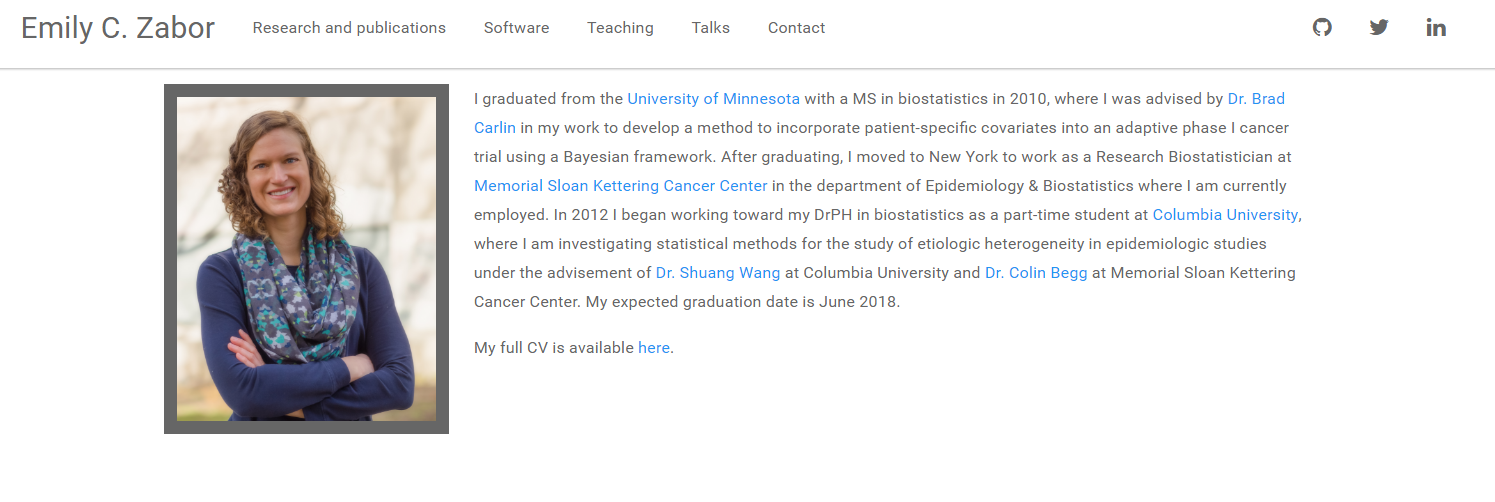
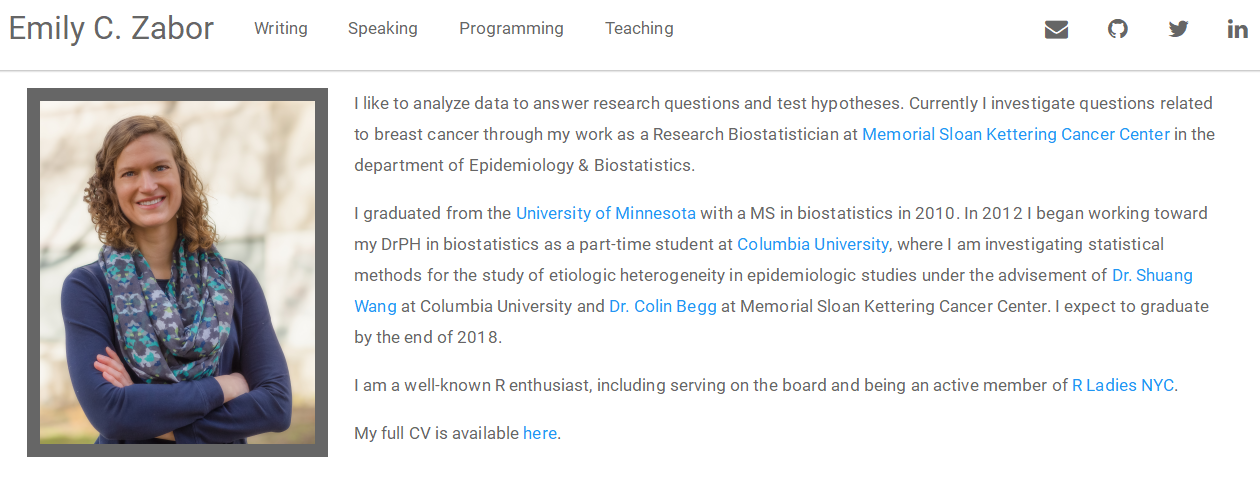
prepping websites tutorial for RLadies Meetup

diff --git a/rmarkdown_websites_tutorial.html b/rmarkdown_websites_tutorial.html
@@ -307,10 +307,7 @@ div.tocify {
 
 <p>This tutorial provides an introduction to creating websites using R, R Markdown and GitHub pages.</p>
 <p>This tutorial was originally presented at the Memorial Sloan Kettering Cancer Center Department of Epidemiology and Biostatistics R User Group meeting on January 23, 2018.</p>
-<div id="github" class="section level2">
-<h2>GitHub</h2>
-<p>If you don’t have a GitHub account already, sign up for one at <a href="https://github.com/join?source=header-home" class="uri">https://github.com/join?source=header-home</a> with username YOUR_GH_NAME.</p>
-</div>
+<p>The current version was updated and presented at the R Ladies NYC Meetup on February 15, 2018.</p>
 <div id="types-of-websites" class="section level2">
 <h2>Types of websites</h2>
 <p>The main types of websites you may want to create include:</p>
@@ -345,6 +342,12 @@ title: &quot;My Website&quot;
 Hello, Website! Welcome to the world.</code></pre>
 <p>You can find an overview of R Markdown website basics <a href="http://rmarkdown.rstudio.com/rmarkdown_websites.html">here</a>.</p>
 </div>
+<div id="github" class="section level2">
+<h2>GitHub</h2>
+<p>This tutorial will focus on hosting websites through GitHub pages. Hosting websites on GitHub pages is free.</p>
+<p>If you don’t have a GitHub account already, sign up for one at <a href="https://github.com/join?source=header-home" class="uri">https://github.com/join?source=header-home</a> with username YOUR_GH_NAME. I’ll be referring to this username, YOUR_GH_NAME, as “your GitHub username” throughout this tutorial.</p>
+<p>There are other free sites for website hosting, and another popular choice is <a href="https://www.netlify.com/">Netlify</a>.</p>
+</div>
 <div id="personal-websites" class="section level2">
 <h2>Personal websites</h2>
 <p>An example from the homepage of <a href="http://www.emilyzabor.com/">my personal website</a>:</p>
@@ -357,15 +360,18 @@ Hello, Website! Welcome to the world.</code></pre>
 <div id="github-setup" class="section level3">
 <h3>GitHub setup</h3>
 <ol style="list-style-type: decimal">
-<li>Create a GitHub repository named YOUR_GH_NAME.github.io, where YOUR_GH_NAME is your GitHub username.</li>
-<li>Initialize it with a README</li>
+<li>Create a GitHub repository (“repo”) named YOUR_GH_NAME.github.io, where YOUR_GH_NAME is your GitHub username.</li>
+<li>Initialize it with a README
+<ul>
+<li>For the GitHub inexperienced: this can ease the process of cloning the repo by initializing the remote repo with a master branch</li>
+</ul></li>
 </ol>
 </div>
 <div id="local-setup" class="section level3">
 <h3>Local setup</h3>
 <ol style="list-style-type: decimal">
 <li>Clone this remote repository to a local directory with the same name, YOUR_GH_NAME.github.io</li>
-<li>Add an R Project to this directoroy</li>
+<li>Add an R Project to this directory</li>
 <li>Create a <code>_site.yml</code> and <code>index.Rmd</code> file in your new directory</li>
 </ol>
 </div>
@@ -376,23 +382,24 @@ Hello, Website! Welcome to the world.</code></pre>
 </div>
 <div id="create-content" class="section level3">
 <h3>Create content</h3>
-<p>Edit the <code>_site.yml</code> file to change the metadata, layout, and <a href="http://jekyllthemes.org/">theme</a> of your website. For example, the <code>_site.yml</code> for my personal website looks like:</p>
+<p>Edit the <code>_site.yml</code> file to change the metadata, layout, and theme of your website. Preview Jekyll themes <a href="http://jekyllthemes.org/">here</a> and play around with different options. Themes are easy to change even after you have added content.</p>
+<p>For example, the <code>_site.yml</code> for my personal website looks like this:</p>
 <pre class="r"><code>name: &quot;Emily C. Zabor&quot;
 output_dir: &quot;.&quot;
 navbar:
   title: &quot;Emily C. Zabor&quot;
   left:
-    - text: &quot;Research and publications&quot;
+    - text: &quot;Writing&quot;
       href: research.html
-    - text: &quot;Software&quot;
+    - text: &quot;Speaking&quot;
+      href: talks.html
+    - text: &quot;Programming&quot;
       href: software.html
     - text: &quot;Teaching&quot;
       href: teaching.html
-    - text: &quot;Talks&quot;
-      href: talks.html
-    - text: &quot;Contact&quot;
-      href: contact.html
   right:
+    - icon: fa-envelope fa-lg
+      href: contact.html
     - icon: fa-github fa-lg
       href: http://github.com/zabore
     - icon: fa-twitter fa-lg
@@ -403,7 +410,8 @@ output:
   html_document:
     theme: paper
     css: &#39;styles.css&#39;</code></pre>
-<p>Edit and create <code>.Rmd</code> files that contain your website content, which will produce the html pages of your website when you knit them. For example, the <code>index.Rmd</code> file for my personal website homepage looks like:</p>
+<p>Edit and create <code>.Rmd</code> files that contain your website content, which will produce the html pages of your website when you knit them.</p>
+<p>For example, the <code>index.Rmd</code> file for my personal website homepage looks like this:</p>
 <pre class="r"><code>---
 ---
 
@@ -411,9 +419,13 @@ output:
 
 &lt;img src=&quot;images/emily_2.jpg&quot; style=&quot;width:25%; border:10px solid; margin-right: 20px&quot; align=&quot;left&quot;&gt;
 
-I graduated from the [University of Minnesota](http://www.sph.umn.edu/academics/divisions/biostatistics/) with a MS in biostatistics in 2010, where I was advised by [Dr. Brad Carlin](http://www.biostat.umn.edu/~brad/) in my work to develop a method to incorporate patient-specific covariates into an adaptive phase I cancer trial using a Bayesian framework. After graduating, I moved to New York to work as a Research Biostatistician at [Memorial Sloan Kettering Cancer Center](https://www.mskcc.org/departments/epidemiology-biostatistics) in the department of Epidemiology &amp; Biostatistics where I am currently employed. In 2012 I began working toward my DrPH in biostatistics as a part-time student at [Columbia University](https://www.mailman.columbia.edu/become-student/departments/biostatistics), where I am investigating statistical methods for the study of etiologic heterogeneity in epidemiologic studies under the advisement of [Dr. Shuang Wang](https://www.mailman.columbia.edu/people/our-faculty/sw2206) at Columbia University and [Dr. Colin Begg](https://www.mskcc.org/profile/colin-begg) at Memorial Sloan Kettering Cancer Center. My expected graduation date is June 2018.
+I like to analyze data to answer research questions and test hypotheses. Currently I investigate questions related to breast cancer through my work as a Research Biostatistician at [Memorial Sloan Kettering Cancer Center](https://www.mskcc.org/departments/epidemiology-biostatistics) in the department of Epidemiology &amp; Biostatistics. 
 
-My full CV is available [here](files/Zabor_CV_2017_Q2.pdf).</code></pre>
+I graduated from the [University of Minnesota](http://www.sph.umn.edu/academics/divisions/biostatistics/) with a MS in biostatistics in 2010. In 2012 I began working toward my DrPH in biostatistics as a part-time student at [Columbia University](https://www.mailman.columbia.edu/become-student/departments/biostatistics), where I am investigating statistical methods for the study of etiologic heterogeneity in epidemiologic studies under the advisement of [Dr. Shuang Wang](https://www.mailman.columbia.edu/people/our-faculty/sw2206) at Columbia University and [Dr. Colin Begg](https://www.mskcc.org/profile/colin-begg) at Memorial Sloan Kettering Cancer Center. I expect to graduate by the end of 2018.
+
+I am a well-known R enthusiast, including serving on the board and being an active member of [R Ladies NYC](http://www.rladiesnyc.org/). 
+
+My full CV is available [here](files/Zabor_CV_2017_Q4.pdf).</code></pre>
 <p>Once you have your content written and the layout setup, on the Build tab in RStudio, select “Build Website”:</p>
 <p><img src="img/build.png" style="border: #A9A9A9 1px solid; width:75%"></p>
 <p>Now your local directory contains all of the files needed for your website:</p>
@@ -439,15 +451,15 @@ My full CV is available [here](files/Zabor_CV_2017_Q2.pdf).</code></pre>
 <li>But this is not a Git/GitHub tutorial. If you want to learn more about Git/GitHub, which I encourage you to do, here’s a great resource to get you started: <a href="http://happygitwithr.com/" class="uri">http://happygitwithr.com/</a></li>
 </ul>
 </div>
-<div id="domains" class="section level3">
-<h3>Domains</h3>
+<div id="custom-domains" class="section level3">
+<h3>Custom domains</h3>
 <p>The default is for your site to be hosted at <a href="http://YOUR_GH_NAME.github.io" class="uri">http://YOUR_GH_NAME.github.io</a>, but you can add a custom domain name as well. There are two steps:</p>
 <ol style="list-style-type: decimal">
-<li>In your GitHub repository YOUR_GH_NAME.github.io, go to Settings, GitHub pages, type your domain name in the box under Custom domain and hit Save</li>
+<li>In your GitHub repository YOUR_GH_NAME.github.io, go to Settings &gt; GitHub pages. Type your domain name in the box under Custom domain and hit Save.</li>
 </ol>
 <p><img src="img/domain.png" style="border: #A9A9A9 1px solid; width:75%"></p>
 <ol start="2" style="list-style-type: decimal">
-<li>Add a CNAME file to your GitHub repsitory YOUR_GH_NAME.github.io that contains your domain name</li>
+<li>Add a CNAME file to your GitHub repsitory YOUR_GH_NAME.github.io.</li>
 </ol>
 <p>It will appear like this in your repository:</p>
 <p><img src="img/cname1.png" style="border: #A9A9A9 1px solid; width:75%"></p>
@@ -459,30 +471,31 @@ My full CV is available [here](files/Zabor_CV_2017_Q2.pdf).</code></pre>
 <h2>Package websites</h2>
 <p>An example from the <a href="http://www.emilyzabor.com/ezfun/">website</a> for my package <code>ezfun</code>:</p>
 <p><img src="img/package.png" style="border: #A9A9A9 1px solid; width:75%"></p>
-<p>Use Hadley Wickham’s great package <code>pkgdown</code> to easily build a website from your package. Details of <code>pkgdown</code> can be found on <a href="http://pkgdown.r-lib.org/">the pkgdown website</a>, which was created using <code>pkgdown</code>.</p>
+<p>Use Hadley Wickham’s great package <code>pkgdown</code> to easily build a website from your package that is hosted on GitHub. Details of <code>pkgdown</code> can be found on <a href="http://pkgdown.r-lib.org/">the pkgdown website</a>, which was also created using <code>pkgdown</code>.</p>
 <p>This assumes you already have an R package with a local directory and a GitHub repository.</p>
 <p>From within your package directory run:</p>
 <pre class="r"><code>devtools::install_github(&quot;hadley/pkgdown&quot;)
 pkgdown::build_site()</code></pre>
 <ul>
-<li><p>This will add a folder called docs to the local directory for your package.</p></li>
+<li><p>This will add a folder called <code>docs</code> to the local directory for your package</p></li>
 <li><p>Upload/push these changes to the GitHub repository for your package</p></li>
-<li><p>In the Settings of the GitHub repository for your package, under GitHub pages, select “master branch/docs folder” as the source:</p></li>
+<li><p>In the GitHub repository for your package go to Settings &gt; GitHub pages. Select “master branch/docs folder” as the source and hit Save</p></li>
 </ul>
 <p><img src="img/ghsource.png" style="border: #A9A9A9 1px solid; width:75%"></p>
 <ul>
-<li><p>The page will be added as to the page: YOUR_GH_NAME.github.io/repo_name</p>
+<li><p>The page will be added as to your personal website as YOUR_GH_NAME.github.io/repo_name</p>
 <ul>
 <li>The Home page of the site will be pulled from the README file on your package repository</li>
 <li>The Reference page of the site lists the included functions with their description</li>
-<li>Each function can be clicked through to see the help page</li>
+<li>Each function can be clicked through to see the help page, if any</li>
+<li>Would also build pages for any available vignettes</li>
 </ul></li>
 </ul>
-<p>And you’re done. It’s that easy!</p>
+<p>And you’re done, it’s that easy.</p>
 </div>
 <div id="project-websites" class="section level2">
 <h2>Project websites</h2>
-<p>You can create a website for a non-package repository as well. For example, I could add <a href="http://www.emilyzabor.com/tutorials/">a page</a> to my website linking to the repository in which this tutorial is stored.</p>
+<p>You can create a website for a non-package repository as well. For example, I have <a href="http://www.emilyzabor.com/tutorials/">a page</a> on my website linking to the repository in which this tutorial is stored.</p>
 <p><img src="img/project.png" style="border: #A9A9A9 1px solid; width:75%"></p>
 <div id="local-setup-1" class="section level3">
 <h3>Local setup</h3>
@@ -496,7 +509,7 @@ pkgdown::build_site()</code></pre>
 <h3>GitHub setup</h3>
 <ul>
 <li><p>Upload/push these new files to the GitHub repository for your project</p></li>
-<li><p>Enable GitHub pages for the repository by going to Settings and scrolling down to the GitHub Pages section, where you’ll select the “master branch” folder:</p></li>
+<li><p>Enable GitHub pages for the repository by going to Settings &gt; GitHub Pages, where you’ll select the “master branch” folder and hit Save</p></li>
 </ul>
 <p><img src="img/ghpages.png" style="border: #A9A9A9 1px solid; width:75%"></p>
 </div>
@@ -511,8 +524,8 @@ pkgdown::build_site()</code></pre>
 <h3>Setup</h3>
 <p>The first three steps are similar to those from creating a basic R Markdown website:</p>
 <ol style="list-style-type: decimal">
-<li>Create a Github directory named YOUR_GH_NAME.github.io, where YOUR_GH_NAME is your GitHub username, initialized with a README file</li>
-<li>Clone the Github directory to a local directory with the same name</li>
+<li>Create a GitHub repository named YOUR_GH_NAME.github.io, where YOUR_GH_NAME is your GitHub username, initialized with a README file</li>
+<li>Clone the GitHub repo to a local directory with the same name</li>
 <li>Add an R Project to the local directoroy</li>
 </ol>
 <p>Next we get started with <code>blogdown</code>.</p>
@@ -522,17 +535,17 @@ pkgdown::build_site()</code></pre>
 <pre class="r"><code>install.packages(&quot;blogdown&quot;)
 blogdown::install_hugo()</code></pre>
 <ol start="5" style="list-style-type: decimal">
-<li><p>Choose a <a href="https://themes.gohugo.io/">theme</a> and find the link to the theme’s GitHub repository</p></li>
-<li><p>Within your project session, generate a new site. The option <code>theme_example = TRUE</code> will obtain the files for an example site that you can then customize for your needs. Below “user/repo” refers to the Github username and GitHub repository for your selected theme.</p></li>
+<li><p>Choose a <a href="https://themes.gohugo.io/">theme</a> and find the link to the theme’s GitHub repository. In this case themes aren’t quite as easy to change as with basic R Markdown websites, so choose carefully.</p></li>
+<li><p>Within your project session, generate a new site. The option <code>theme_example = TRUE</code> will obtain the files for an example site that you can then customize for your needs. Below “user/repo” refers to the GitHub username and GitHub repository for your selected theme.</p></li>
 </ol>
 <pre class="r"><code>blogdown::new_site(theme = &quot;user/repo&quot;, theme_example = TRUE)</code></pre>
-<p>This will generate all of the file structure for your new website.</p>
+<p>This will generate all of the file structure for your new blog.</p>
 <p><img src="img/blogdirectory.png" style="border: #A9A9A9 1px solid; width:75%"></p>
 <p>After this is complete, you should quit and then reopen the project. Upon reopening, RStudio will recognize the project as a website.</p>
 </div>
 <div id="customizing-the-appearance" class="section level3">
 <h3>Customizing the appearance</h3>
-<p>Make changes to the <code>config.toml</code> file to change the layout and appearance of your website. The available features of the <code>config.toml</code> file will differ depending on your theme, and most theme examples come with a well annotated <code>config.toml</code> that you can use as a template.</p>
+<p>Make changes to the <code>config.toml</code> file (equivalent to the <code>_site.yml</code> from basic R Markdown websites) to change the layout and appearance of your website. The available features of the <code>config.toml</code> file will differ depending on your theme, and most theme examples come with a well annotated <code>config.toml</code> that you can use as a template.</p>
 <p>Once you have customized your website features, click on the RStudio addin “Serve Site” to preview the site locally.</p>
 <p><img src="img/servesite.png" style="border: #A9A9A9 1px solid; width:75%"></p>
 </div>
@@ -540,20 +553,20 @@ blogdown::install_hugo()</code></pre>
 <h3>Writing a new blog post</h3>
 <p>There are several ways to create a new post for your site, but the easiest is using the RStudio addin “New Post”:</p>
 <p><img src="img/newpost.png" style="border: #A9A9A9 1px solid; width:75%"></p>
-<p>This opens a pop-up where we can enter the meta-data for our new post:</p>
+<p>This opens a pop-up where you can enter the meta-data for a new post:</p>
 <p><img src="img/newpostbox.png" style="border: #A9A9A9 1px solid; width:75%"></p>
-<p>In addition to setting the Title, Author and Date of the post, you can additionally create categories, which will organize your posts in folders, and can add tags to posts, which can make them searchable within your site’s content. Dates can be in the future to allow future release of a post.</p>
+<p>In addition to setting the Title, Author and Date of the post, you can additionally create categories, which will organize your posts in folders, and can add tags to posts, which can make them searchable within your site’s content. Be aware that the functioning of these features will vary by theme. Dates can be in the future to allow future release of a post.</p>
 <p>Notice at the bottom that you can select whether to use a regular markdown (<code>.md</code>) or R markdown (<code>.Rmd</code>) file. <code>.Rmd</code> files will have to be rendered before generating html pages so it is best practice to limit their use to cases where R code is included.</p>
 <p>A file name and slug will automatically be generated based on the other metadata. The slug is a URL friendly title of your post.</p>
 <p><img src="img/newpostboxfilled.png" style="border: #A9A9A9 1px solid; width:75%"></p>
 </div>
 <div id="hosting" class="section level3">
 <h3>Hosting</h3>
-<p>A <code>blogdown</code> site is a bit more cumbersome both to build and to host on GitHub, as compared to a regular R Markdown website, and as compared to what I described above.</p>
-<p><em>Problem 1</em>: Because it is a static site, upon building, the files needed to generate the site online are automatically created in a separate subdirectory within your local directory. However this will cause problems with GitHub hosting since the files to host need to be in the YOUR_GH_NAME.github.io folder.</p>
+<p>A <code>blogdown</code> site is a bit more cumbersome both to build and to host on GitHub as compared to a regular R Markdown website, and as compared to what I described above.</p>
+<p><em>Problem 1</em>: Because it is a static site, upon building, the files needed to generate the site online are automatically created in a separate subdirectory called <code>public</code> within your local directory. However this will cause problems with GitHub hosting since the files to host need to be in the local YOUR_GH_NAME.github.io directory</p>
 <p>My solution:</p>
 <ol style="list-style-type: decimal">
-<li>Maintain separate folders for the source files (I named this folder “source”) and for the static files (the folder YOUR_GH_NAME.github.io). The “source” folder is where your R project and <code>config.toml</code> files will live.</li>
+<li>Maintain separate directories for the source files (I named this directory “source”) and for the static files (the directory YOUR_GH_NAME.github.io) that will be generated on build. The “source” folder is where your R project and <code>config.toml</code> files will live.</li>
 </ol>
 <p><img src="img/blogfolders.png" style="border: #A9A9A9 1px solid; width:75%"></p>
 <ol start="2" style="list-style-type: decimal">
@@ -576,6 +589,9 @@ blogdown::install_hugo()</code></pre>
 <li><a href="https://bookdown.org/yihui/blogdown/" class="uri">https://bookdown.org/yihui/blogdown/</a>: Yihui Xie’s blogdown book</li>
 <li><a href="https://themes.gohugo.io/" class="uri">https://themes.gohugo.io/</a>: Hugo themes for use with your <code>blogdown</code> website</li>
 </ul>
+</div>
+<div id="demo" class="section level2">
+<h2>Demo</h2>
 </div>
 
 

diff --git a/index.html b/index.html
@@ -206,7 +206,7 @@ $(document).ready(function () {
 
 
 <ul>
-<li><a href="rmarkdown_websites_tutorial.html">Creating websites in R</a>. This tutorial was originally presented at the Memorial Sloan Kettering Cancer Center Department of Epidemiology and Biostatistics R User Group meeting on January 23, 2018.</li>
+<li><a href="rmarkdown_websites_tutorial.html">Creating websites in R</a></li>
 </ul>
 
 
